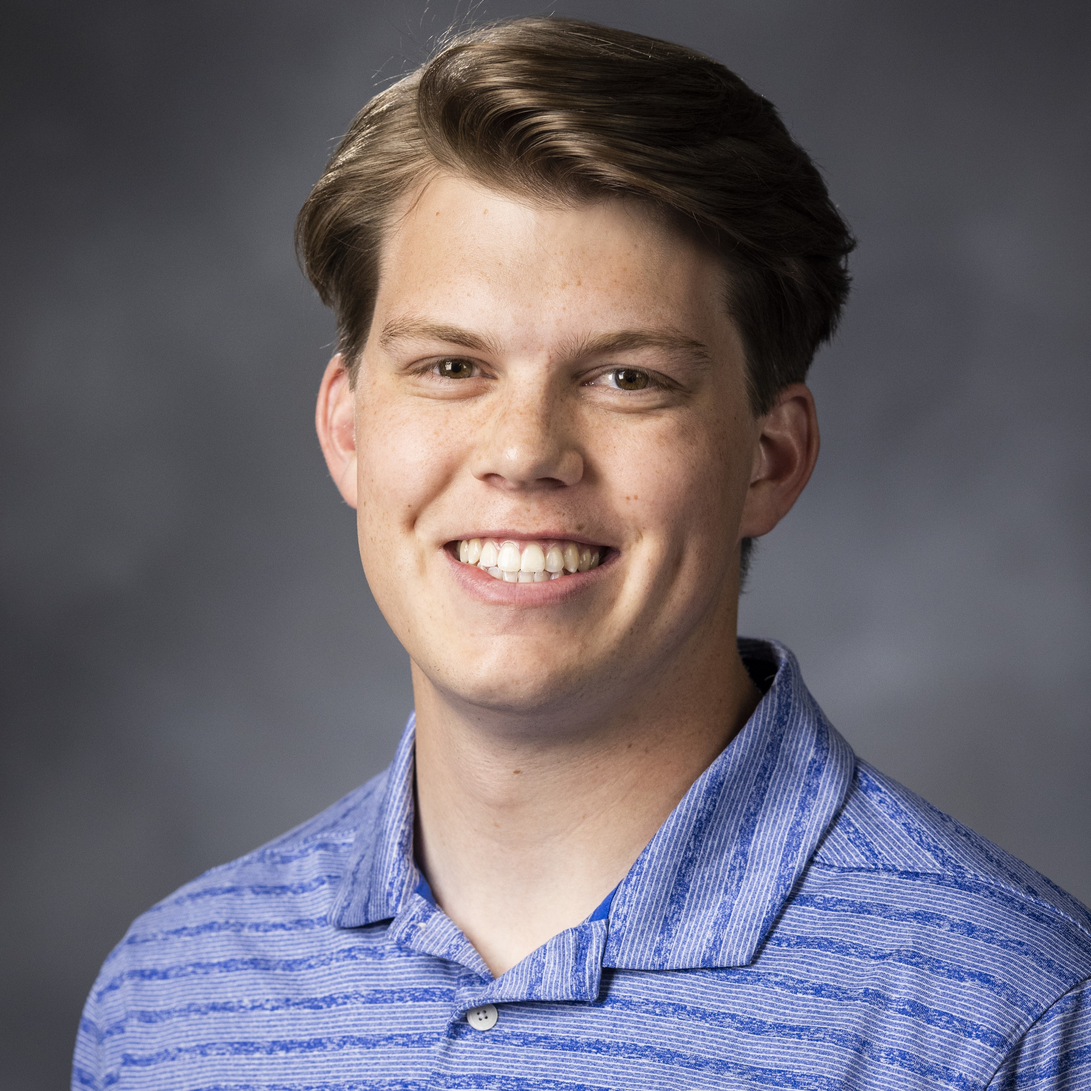
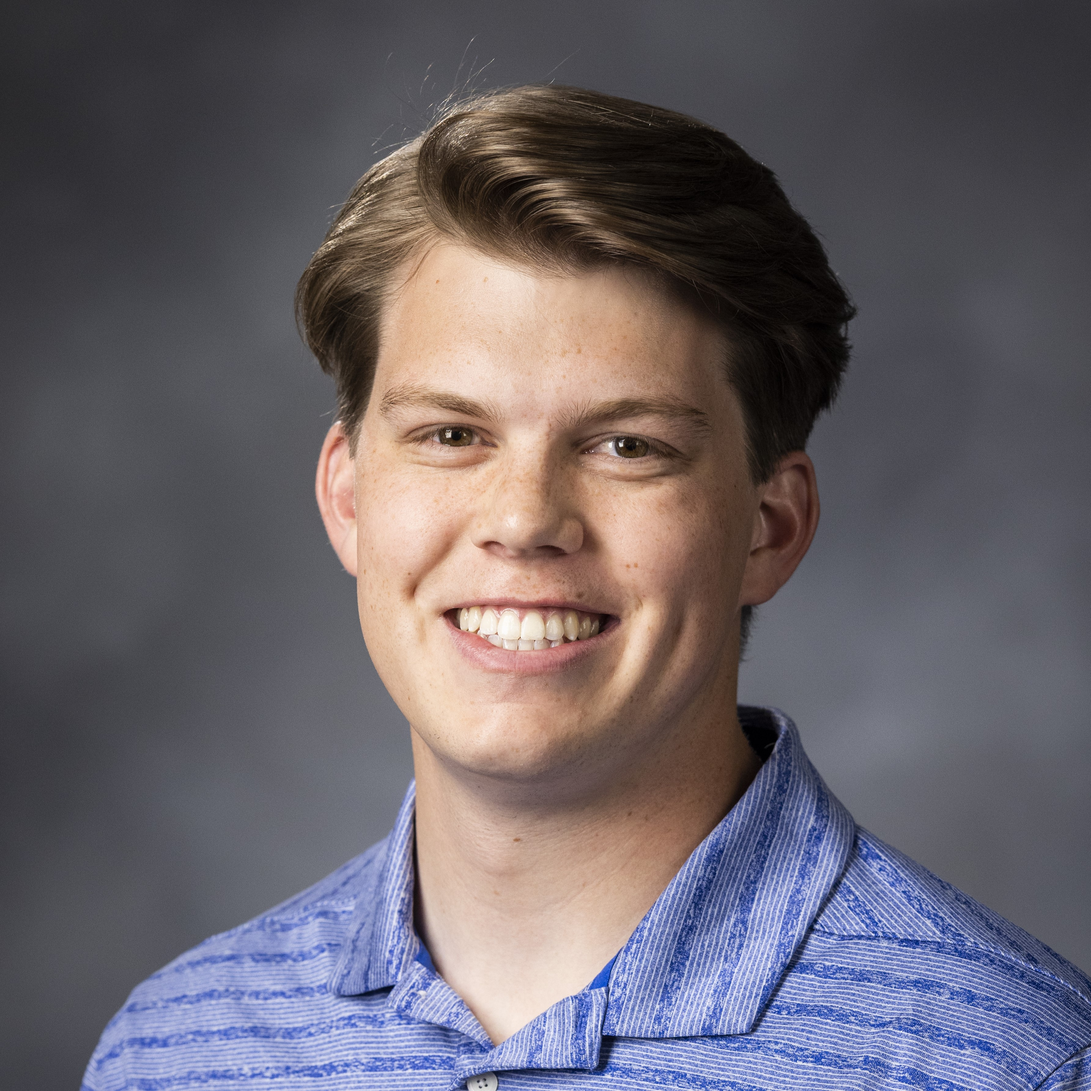
updated headshot, testing flasher gif

diff --git a/content/publications/flasher_optimization.md b/content/publications/flasher_optimization.md
@@ -21,11 +21,14 @@ For the source code and additional materials, you can visit the GitHub repositor
 
 <!-- ![Origami Flasher pattern overview](/publications/flasher_optimization/FlasherOverviewV2.PNG) -->
 
-<div style="text-align: center;">
+You can view and download the gif here:
+<a href="/publications/flasher_optimization/z.gif" target="_blank">gif donwload</a>
+
+<!-- <div style="text-align: center;">
     <img src="/publications/flasher_optimization/z.gif" alt="Optimized Flasher Prototype - Z Frame"  style="display: block; margin-left: auto; margin-right: auto;">
     <img src="/publications/flasher_optimization/cross.gif" alt="Optimized Flasher Prototype - Cross"  style="display: block; margin-left: auto; margin-right: auto;">
     <img src="/publications/flasher_optimization/diamond.gif" alt="Optimized Flasher Prototype - Diamond"  style="display: block; margin-left: auto; margin-right: auto;">
-</div>
+</div> -->
 
 <!-- ![Optimized Flasher Prototype - Z Frame](/publications/flasher_optimization/z.gif)
 ![Optimized Flasher Prototype - Cross](/publications/flasher_optimization/cross.gif)
